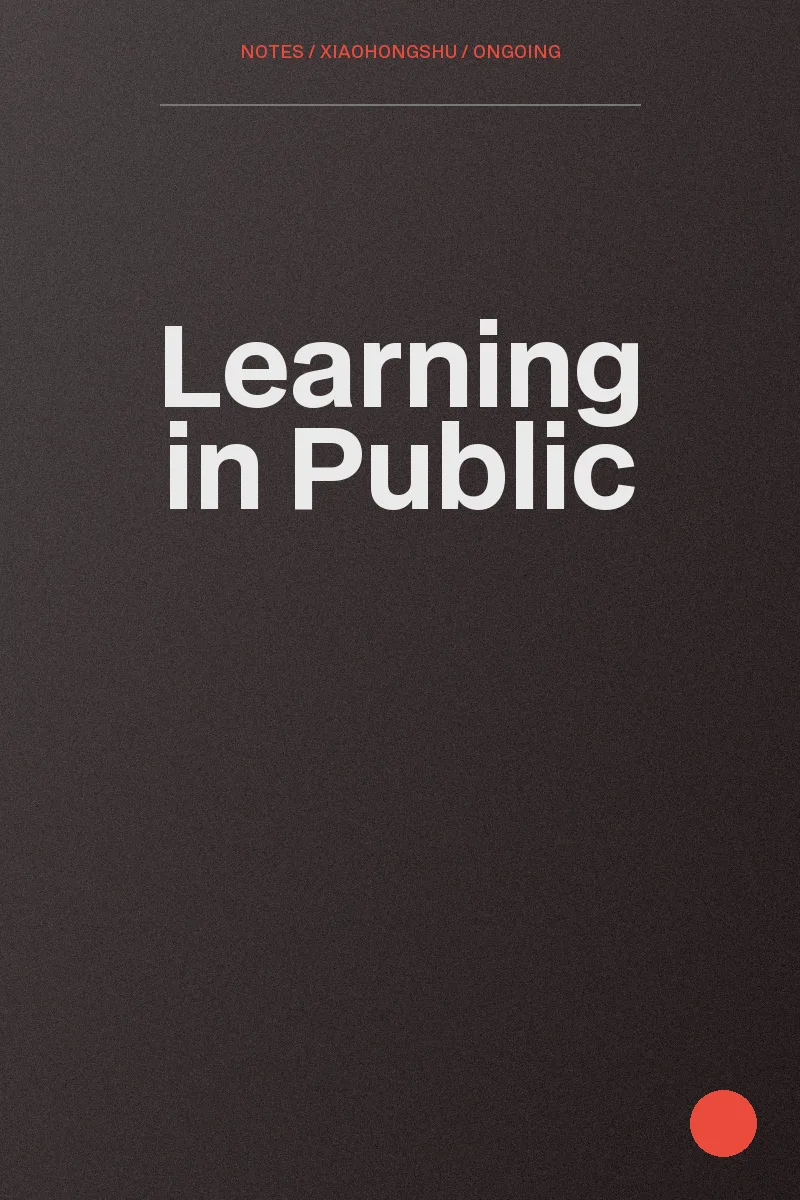
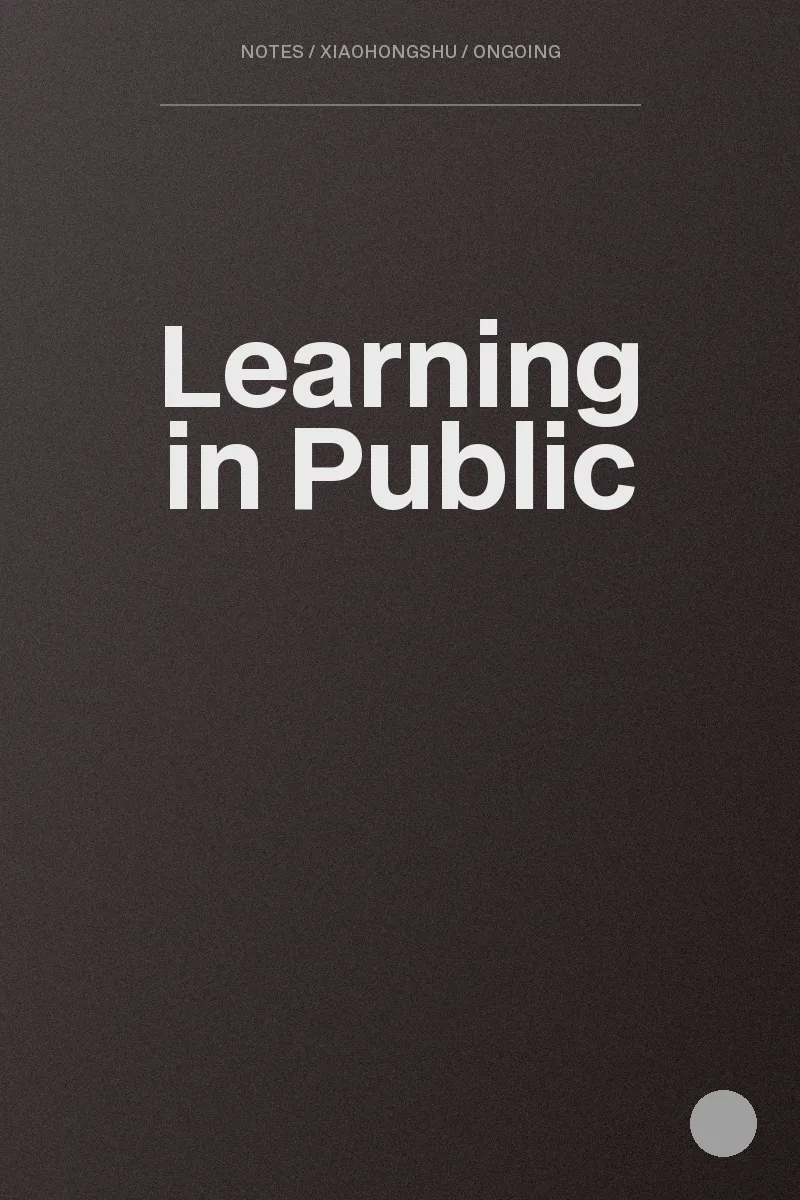
Loader: four alphabet reels spelling Jael; drop orange accent
Reels spin together and settle J, a, e, l in sequence, then the name
lifts with the curtain. Accent colour is now graphite everywhere
(menu, buttons, card labels, posters, favicon).

Changed region(s): [[0.3125, 0.0308, 0.7188, 0.0617], [0.8438, 0.8942, 0.9688, 0.9867]]

diff --git a/styles.css b/styles.css
@@ -17,7 +17,7 @@
   --color-carbon-black:#1f1f1f;
   --color-graphite:#363636;
   --color-alabaster-grey:#eaeaea;
-  --color-strawberry:#eb4b3d;
+  --color-strawberry:#363636; /* accent kept monochrome: no orange anywhere */
   --ease-osmo:cubic-bezier(.625,.05,0,1);
   --menu-width:30em;
 }
@@ -56,13 +56,12 @@ h1,h2,h3{font-weight:400}
 .loader__panel-fill{position:absolute;inset:0}
 .loader__panel-bottom{position:absolute;top:calc(100% - .6rem);left:-10%;width:120%;height:20vw;min-height:8rem;transform-origin:top;border-radius:0 0 50% 50%/0 0 100% 100%}
 .loader__container{position:relative;z-index:1;display:flex;width:100%;height:100%;align-items:center;justify-content:center}
-.loader__logo{--loader-slot-height:clamp(10rem,15vw,17rem);--loader-slot-gap:clamp(1.6rem,7vw,7rem);--loader-mask-extra:clamp(1.25rem,6vw,6rem);display:flex;align-items:center;justify-content:center;gap:clamp(1rem,2vw,2.5rem)}
+.loader__logo{--loader-slot-height:clamp(8rem,13vw,15rem);--loader-slot-gap:clamp(1.6rem,7vw,7rem);--loader-mask-extra:clamp(1.25rem,6vw,6rem);display:flex;align-items:center;justify-content:center;gap:clamp(.25rem,.6vw,.75rem)}
 .loader__logo-column{height:calc(var(--loader-slot-height) + var(--loader-mask-extra));overflow:hidden}
 .loader__logo-track{display:flex;flex-direction:column;gap:var(--loader-slot-gap);will-change:transform;transform:translateZ(0);backface-visibility:hidden}
 .loader[data-load-state=booting] .loader__container{opacity:0}
 .loader[data-load-state=booting] .loader__logo-track{transform:translate3d(0,calc(var(--loader-slot-height) + var(--loader-slot-gap)),0)}
-.loader__logo-cell{display:flex;height:var(--loader-slot-height);align-items:center;justify-content:center;flex:0 0 var(--loader-slot-height);font-weight:700;font-size:var(--loader-slot-height);line-height:1;color:var(--color-onyx);letter-spacing:-.06em}
-.loader__logo-cell.is--dot{color:var(--color-strawberry)}
+.loader__logo-cell{display:flex;height:var(--loader-slot-height);width:100%;align-items:center;justify-content:center;flex:0 0 var(--loader-slot-height);font-weight:700;font-size:var(--loader-slot-height);line-height:1;color:var(--color-onyx);letter-spacing:-.04em}
 
 /* ---------- Header / underlay nav ---------- */
 .underlay-nav__header{z-index:100;color:var(--color-alabaster-grey);position:fixed;inset:0 0 auto;transition:color .2s ease;will-change:transform}
@@ -76,7 +75,6 @@ body[data-menu-status=closing] .underlay-nav__header{color:var(--color-onyx)}
 body[data-menu-status=open] .underlay-nav__cta-header,body[data-menu-status=closing] .underlay-nav__cta-header{opacity:0;pointer-events:none}
 .underlay-nav__logo{display:flex;align-items:center;margin:-.75em;padding:.75em;color:inherit}
 .underlay-nav__logo-mark{display:block;font-size:clamp(1.9rem,2.2vw,2.3rem);font-weight:700;line-height:.8;letter-spacing:-.06em;transition:color .2s ease}
-.underlay-nav__logo-dot{color:var(--color-strawberry)}
 .underlay-nav__toggle{display:flex;justify-content:center;align-items:center;margin:-1em;padding:1em;outline:none}
 .underlay-nav__toggle-icon{display:flex;flex-direction:column;justify-content:center;align-items:center;gap:.375em;width:1.5em}
 .underlay-nav__toggle-bar{background:currentColor;flex:none;width:100%;height:.125em}
@@ -95,7 +93,7 @@ body[data-menu-status=open] .underlay-nav__cta-header,body[data-menu-status=clos
 .underlay-nav__list{display:flex;flex-direction:column;width:100%;list-style:none}
 .underlay-nav__list.is--small{gap:.75em}
 .underlay-nav__link-large{border-radius:.125em;width:100%;padding:.75em 1em;display:block}
-.underlay-nav__link-large.w--current{color:#ededed;background:var(--color-strawberry)}
+.underlay-nav__link-large.w--current{color:#ededed;background:var(--color-onyx)}
 .underlay-nav__link-label{letter-spacing:-.04em;font-size:clamp(1.9rem,2.2vw,3rem);line-height:1.08}
 .underlay-nav__bottom{display:flex;justify-content:flex-start;align-items:flex-start;width:100%;margin-top:auto;padding-top:1.5em;position:relative}
 .underlay-nav__bottom-col{display:flex;flex-direction:column;flex:1;gap:1em;align-items:flex-start}

diff --git a/main.js b/main.js
@@ -81,11 +81,19 @@
       return;
     }
 
-    // Build 12 copies per column: "J" on the left, a strawberry dot on the right.
-    for (let i = 0; i < 12; i++) {
-      const l = document.createElement('div'); l.className = 'loader__logo-cell'; l.textContent = 'J'; left.appendChild(l);
-      const r = document.createElement('div'); r.className = 'loader__logo-cell is--dot'; r.textContent = '.'; right.appendChild(r);
-    }
+    // Four alphabet reels spelling "Jael". Each reel holds a run of letters that
+    // ends on its target; they all spin together and settle one after another.
+    const tracks = $$('[data-load-track]', wrap);
+    const REEL = 12;
+    tracks.forEach(track => {
+      const target = track.dataset.letter, upper = target === target.toUpperCase();
+      const alpha = upper ? 'ABCDEFGHIJKLMNOPQRSTUVWXYZ' : 'abcdefghijklmnopqrstuvwxyz';
+      const idx = alpha.indexOf(target);
+      for (let i = REEL - 1; i >= 0; i--) {
+        const cell = document.createElement('div'); cell.className = 'loader__logo-cell';
+        cell.textContent = alpha[(idx - i + 26) % 26]; track.appendChild(cell);
+      }
+    });
     gsap.set(wrap, { display: 'block' });
 
     const measure = track => {
@@ -96,24 +104,32 @@
     };
 
     document.fonts.ready.then(() => requestAnimationFrame(() => {
-      const L = measure(left), R = measure(right);
-      const lEnd = -(L.step * L.finalIndex), rEnd = -(R.step * R.finalIndex);
-      const lOver = lEnd + L.cell * 0.25, rOver = rEnd + R.cell * 0.25;
+      // Each column is only as wide as the letter it lands on, so "Jael" reads as a word once settled.
+      tracks.forEach(track => {
+        const probe = track.lastElementChild.cloneNode(true);
+        probe.style.cssText = 'position:absolute;visibility:hidden;width:auto;flex:none;padding:0 .04em';
+        track.parentElement.appendChild(probe);
+        track.parentElement.style.width = `${Math.ceil(probe.getBoundingClientRect().width)}px`;
+        probe.remove();
+      });
       const panelH = panel.getBoundingClientRect().height;
-
-      gsap.set(left, { y: L.step }); gsap.set(right, { y: R.step });
+      const tl = gsap.timeline();
+      const SPIN = 1.6, STEP = 0.45, SETTLE = 0.6;
+      tracks.forEach((track, i) => {
+        const m = measure(track), end = -(m.step * m.finalIndex), over = end + m.cell * 0.25;
+        gsap.set(track, { y: m.step });
+        const spin = SPIN + i * STEP;
+        tl.to(track, { y: over, duration: spin, ease: 'osmo', force3D: true }, i * 0.06)
+          .to(track, { y: end, duration: SETTLE, ease: 'osmo', force3D: true }, i * 0.06 + spin);
+      });
       wrap.dataset.loadState = 'ready';
       gsap.set(container, { autoAlpha: 1 });
-
-      const tl = gsap.timeline();
-      tl.to(left, { y: lOver, duration: 2.3, ease: 'osmo', force3D: true }, 0)
-        .to(left, { y: lEnd, duration: 0.7, ease: 'osmo', force3D: true }, 2.3)
-        .to(right, { y: rOver, duration: 2.3, ease: 'osmo', force3D: true }, 0.1)
-        .to(right, { y: rEnd, duration: 0.7, ease: 'osmo', force3D: true }, 2.4)
-        .add('revealPage', 3.2)
+      const reveal = SPIN + (tracks.length - 1) * (STEP + 0.06) + SETTLE + 0.35;
+      tl.add('revealPage', reveal)
         .set(hero, { opacity: 1 }, 'revealPage');
       heroLines?.addTo(tl, 'revealPage+=0.05');
-      tl.to(container, { autoAlpha: 0, duration: 0.4, ease: 'power1.out' }, 'revealPage')
+      // The settled name lifts with the panel, then the curtain goes up.
+      tl.to(container, { y: -panelH * 0.18, autoAlpha: 0, duration: 0.55, ease: 'osmo' }, 'revealPage')
         .to(panel, { y: -panelH, duration: 1, ease: 'osmo' }, 'revealPage')
         .to(panelBottom, { scaleY: 0, duration: 1, ease: 'osmo' }, 'revealPage')
         .set(wrap, { display: 'none' })

diff --git a/index.html b/index.html
@@ -24,12 +24,10 @@
     <div class="loader__panel-bottom" data-load-panel-bottom></div>
     <div class="loader__container" data-load-container>
       <div class="loader__logo" data-load-logo>
-        <div class="loader__logo-column">
-          <div class="loader__logo-track" data-load-track="left"></div>
-        </div>
-        <div class="loader__logo-column">
-          <div class="loader__logo-track" data-load-track="right"></div>
-        </div>
+        <div class="loader__logo-column"><div class="loader__logo-track" data-load-track data-letter="J"></div></div>
+        <div class="loader__logo-column"><div class="loader__logo-track" data-load-track data-letter="a"></div></div>
+        <div class="loader__logo-column"><div class="loader__logo-track" data-load-track data-letter="e"></div></div>
+        <div class="loader__logo-column"><div class="loader__logo-track" data-load-track data-letter="l"></div></div>
       </div>
     </div>
   </div>
@@ -50,7 +48,7 @@
   <header class="underlay-nav__header">
     <div class="underlay-nav__container">
       <a href="#top" class="underlay-nav__logo" aria-label="Jael Chen home" data-scroll-top>
-        <span class="underlay-nav__logo-mark" aria-hidden="true">J<span class="underlay-nav__logo-dot">.</span></span>
+        <span class="underlay-nav__logo-mark" aria-hidden="true">J.</span>
       </a>
       <div class="underlay-nav__actions">
         <a href="mailto:2069490556@qq.com" class="button-043 underlay-nav__cta-header">
